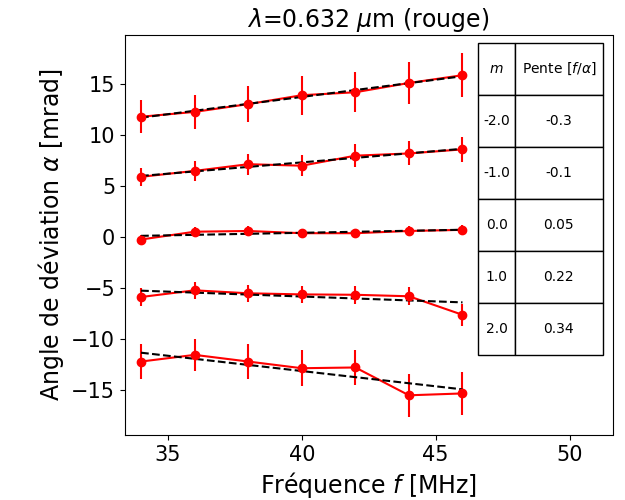
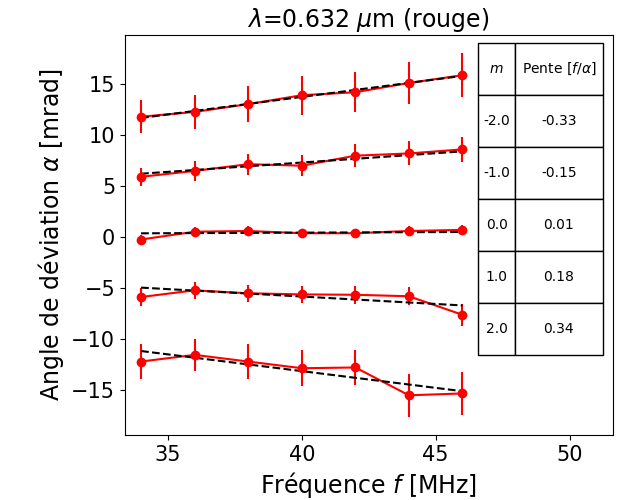
v_s calculé

diff --git a/PHY-3002/AO/ao_analyse.py b/PHY-3002/AO/ao_analyse.py
@@ -20,7 +20,7 @@ def find_line(x_data, y_data, sigma=None):
     """
     gives intercept and slope
     """
-    res = curve_fit(lambda x,a,b: x*a+b, x_data, y_data, sigma=sigma)
+    res = curve_fit(lambda x,a: x*a, x_data, y_data, sigma=sigma)
     return res[0]
 
 frequencies = [34,36,38,40,42,44,46] # MHz
@@ -39,14 +39,14 @@ for k, couleur in enumerate(["bleu","vert","rouge"]):
     ax1 = plt.subplot(111)
     slopes = []
     for i in range(5):
-        slope, intercept = find_line(frequencies, angles[:,i], uncertainties[:,i])
+        slope = find_line(frequencies, angles[:,i], uncertainties[:,i])[0]
         print(f"alpha = {slope}f")
         slopes.append(slope)
         plt.errorbar(frequencies, angles[:,i], uncertainties[:,i], fmt="o", color=["blue","green","red"][k])
         #plt.plot(frequencies, angles[:,i], "o", color=["blue","green","red"][k])
         plt.plot(frequencies, angles[:,i], "-", color=["blue","green","red"][k])
-        plt.plot(frequencies, slope*np.array(frequencies)+intercept, "--", color="black")
-
+        plt.plot(frequencies, slope*np.array(frequencies), "--", color="black")
+    print("v_s =", lambdas[k]*1E6/(slopes[3]/1000*1000000))
     col_labels=[r'$m$',r'Pente [$f/\alpha$]']
     table_vals=np.array([np.array([-2,-1,0,1,2], dtype=int),np.around(slopes, decimals=2)]).T
     # the rectangle is where I want to place the table
@@ -71,3 +71,5 @@ for k, couleur in enumerate(["bleu","vert","rouge"]):
     ax1.yaxis.set_tick_params(labelsize=15)
     plt.savefig(f"PHY-3002/AO/graph/final_{couleur}.png")
     plt.show()
+
+
